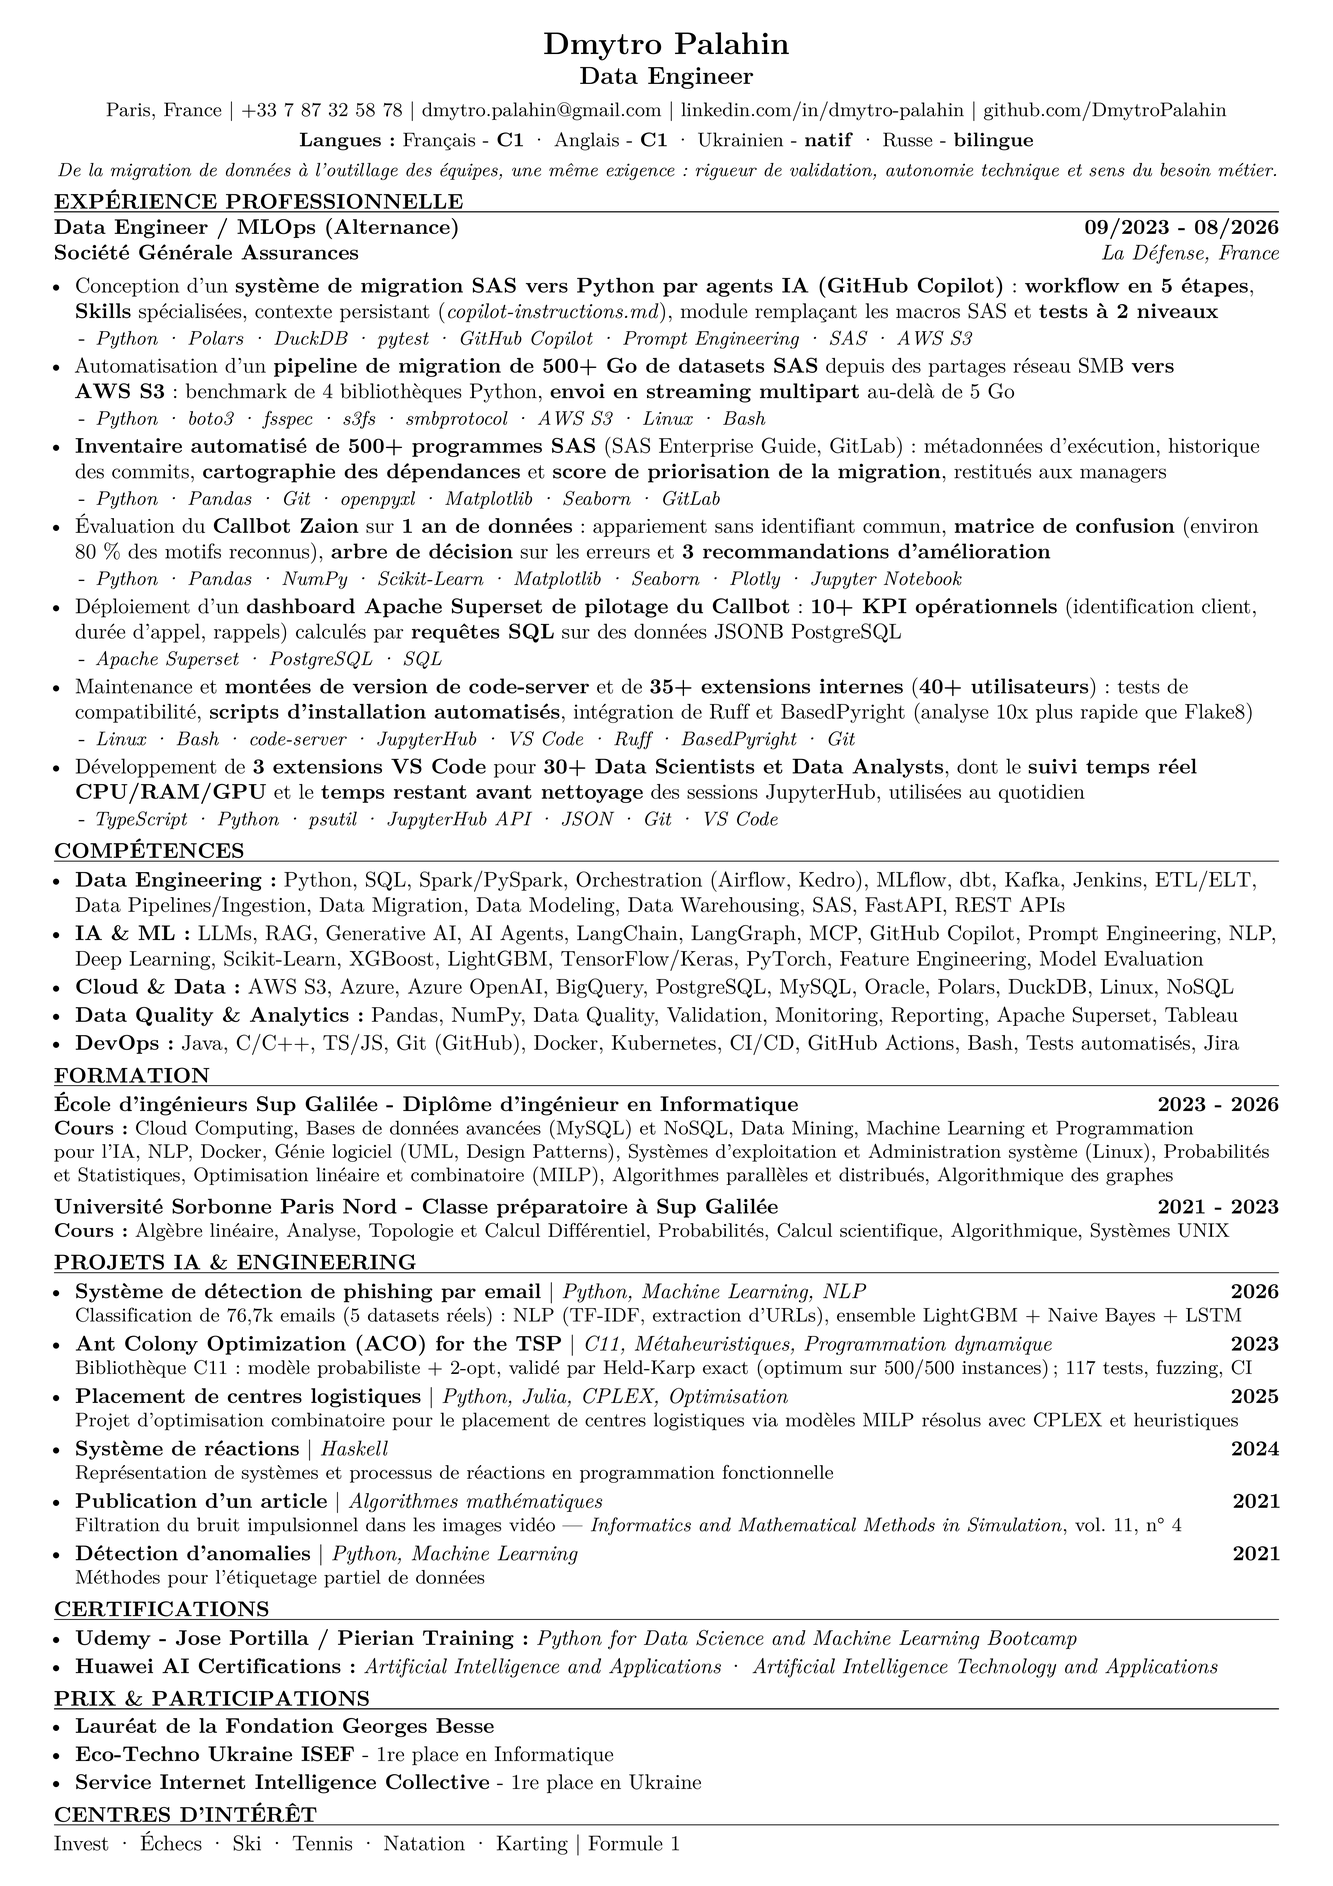
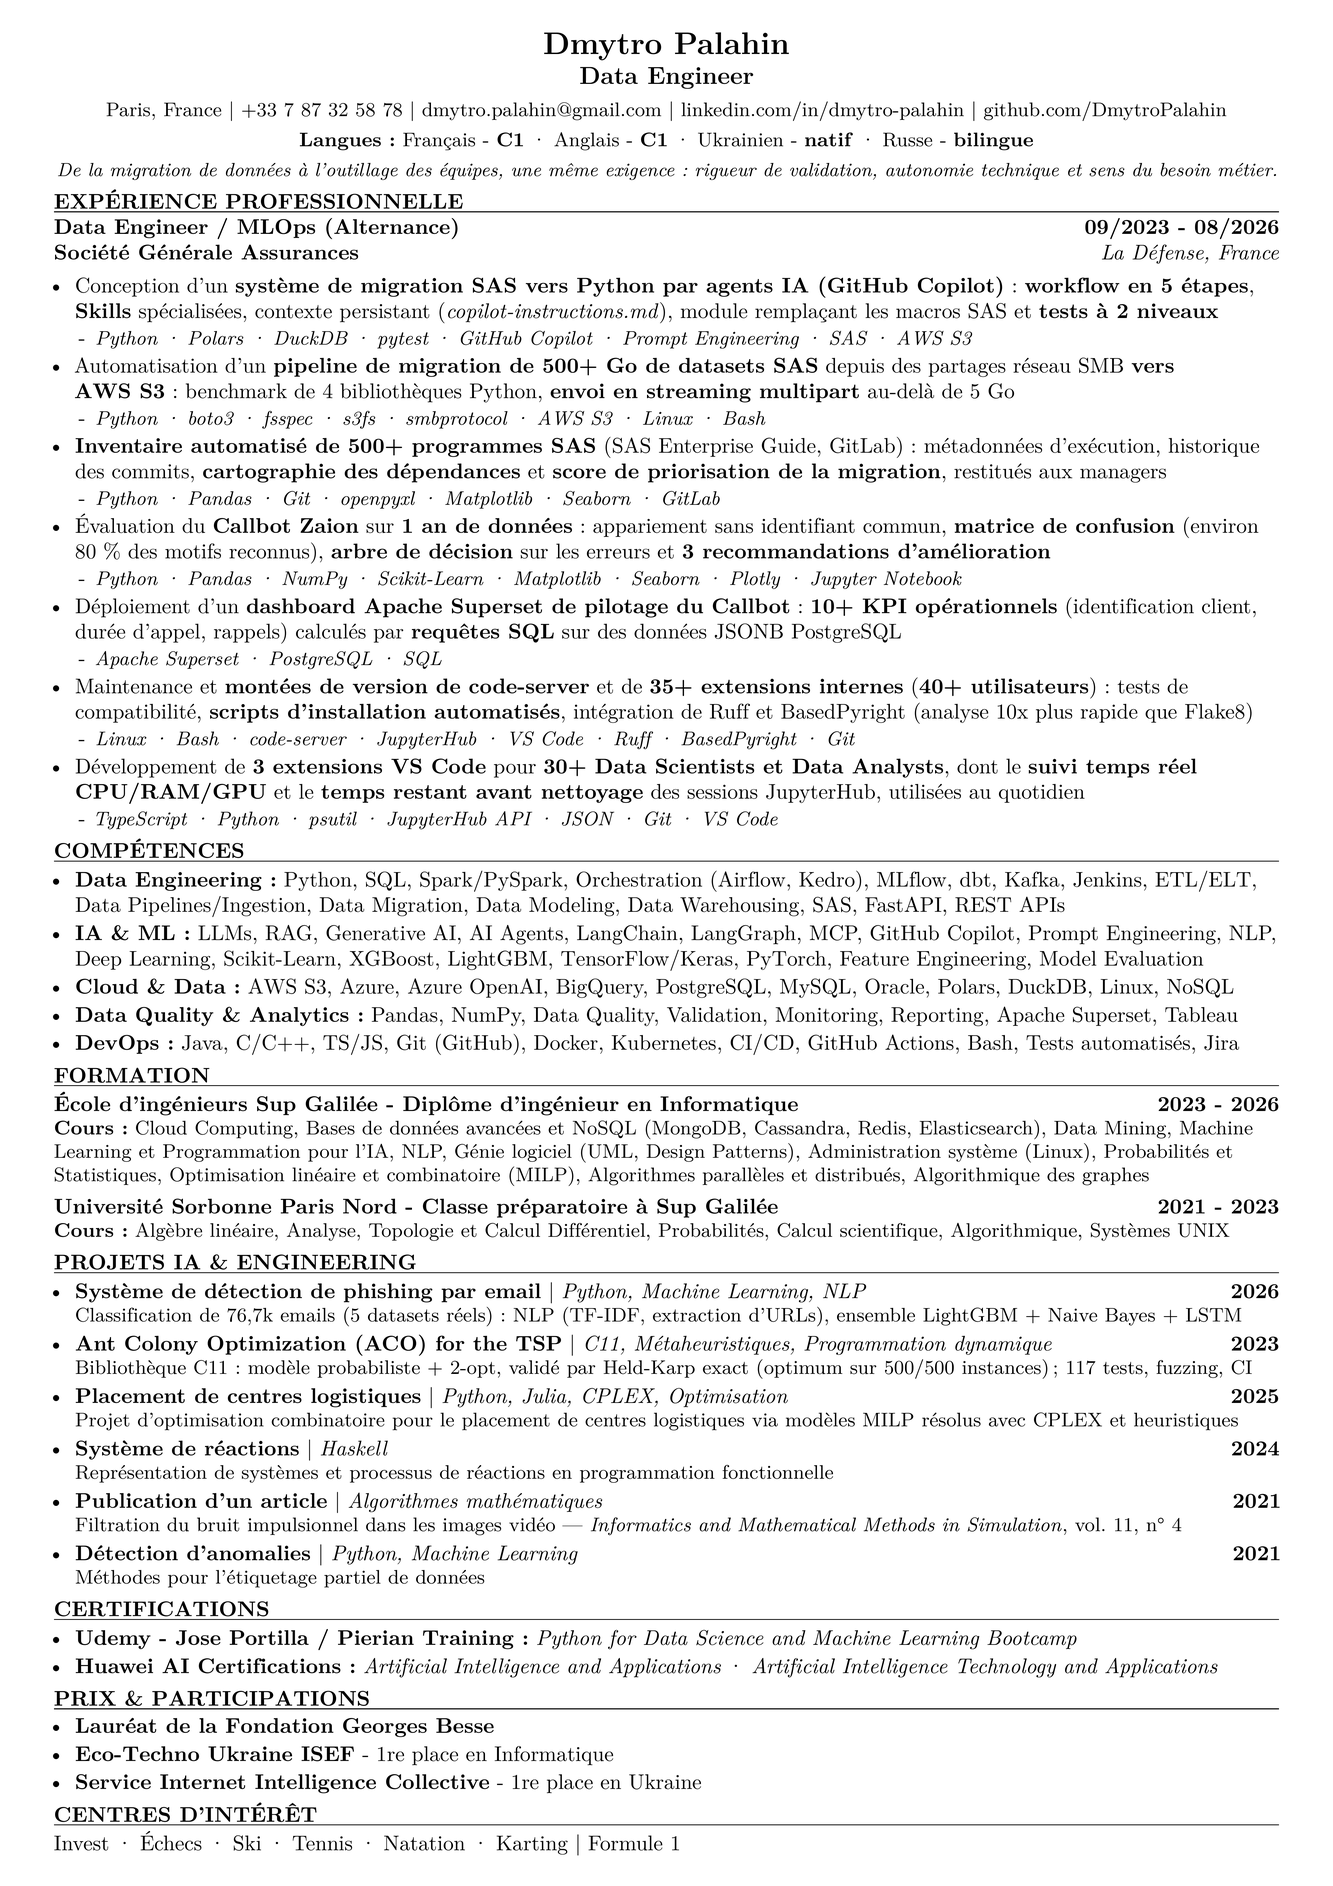
add Makefile and battleship reserve, upd docs for v2.1.0

Changed region(s): [[0.0312, 0.5931, 0.9373, 0.6243]]

diff --git a/src/fr/cv-dmytro-palahin-fr-d.tex b/src/fr/cv-dmytro-palahin-fr-d.tex
@@ -598,6 +598,34 @@
     % %   validées par XML Schema, interface Swing avec un thread de simulation dédié, CLI ; explorateur de règles bonus
     % %   parmi les 2^32 règles de rayon 2 (motifs fractals et chaotiques) ; 97 % de couverture de lignes hors classes
     % %   Swing ; CI sous Linux, macOS et Windows
+    %% Bataille navale (postes C / systèmes / génie logiciel) : projet de prepa 2023 (en binome, un seul fichier C de
+    %%   2 666 lignes) reecrit seul en 2026 (v2.0.0 a v2.2.1) ; variante d'annee « 2023 - 2026 ». A placer apres
+    %%   aco-tsp (2023) ; la page est pleine : deplacer un autre projet de deux lignes (Détection d'anomalies ou
+    %%   Système de réactions) dans cette Reserve pour garder une page (teste 11/2026)
+    % \project{Bataille navale (Battleship)}{https://github.com/DmytroPalahin/battleship}
+    % {C11, GTK 3, MVC, CMake, CI/CD}{2023}
+    % {Jeu MVC : moteur C11 sans dépendance (couvert à 98 \%), interfaces GTK 3 et terminal, 3 niveaux d'IA mesurés sur 10k parties, CI}
+    % % Bataille navale, description longue (2 lignes) : réécriture MVC d'un jeu en un seul fichier : moteur C11 sans
+    % %   dépendance (ni malloc, ni état global), interfaces GTK 3 et terminal ; 3 niveaux d'IA mesurés sur 10k parties
+    % %   (96 / 66 / 55 tirs par flotte) ; 54 tests unitaires, 2 250 parties de test, sanitizers, CI
+    %%   Autres descriptions sur une ligne (chacune tient sur une ligne avec la meme stack) :
+    %%   « Jeu MVC : moteur C11 sans dépendance, interfaces GTK 3 et terminal, 3 niveaux d'IA mesurés (carte de probabilités) ; 54 tests, CI »
+    %%   « Jeu MVC : moteur C11 sans dépendance, interfaces GTK 3 et terminal, 3 niveaux d'IA mesurés sur 10k parties ; 54 tests, CI »
+    %%   Titre : « Bataille navale (Battleship) » reprend le nom du depot battleship ; « Bataille navale » seul convient aussi
+    %%   Formulation courte (LinkedIn) : stack « C, GTK », description « Jeu de bataille navale en C avec interface graphique GTK »
+    %%   Chiffres (verifies 11/2026) : 98,7 % de couverture de lignes du moteur (la CI echoue sous 95 %) ; 54 cas unitaires ;
+    %%   2 250 parties = 250 pour chacune des 9 paires de niveaux, tous les invariants reverifies apres chaque tir ; test de
+    %%   bout en bout de l'interface sous Xvfb ; ASan/UBSan, clang-tidy, cppcheck, CodeQL ; CI GCC et Clang sous Ubuntu,
+    %%   Apple Clang sous macOS ; releases avec paquets .tar.gz et .deb, sommes de controle et provenance de build ;
+    %%   rapport de projet en LaTeX (francais et anglais)
+    %%   Pour l'entretien : l'IA est une fonction pure de l'information publique (elle ne recoit jamais la position des
+    %%   navires : elle ne peut pas tricher) ; niveau difficile = carte de probabilites (compte tous les placements des
+    %%   navires restants compatibles avec les tirs, tire la ou ils se recouvrent le plus), il bat le niveau moyen dans
+    %%   87,5 % des parties ; tirs moyens pour couler une flotte sur 10 000 parties : 96,2 (facile), 65,8 (moyen),
+    %%   55,3 (difficile) ; generateur aleatoire a graine dans le moteur (« --seed N » rejoue une partie a l'identique
+    %%   sous Linux et macOS) ; une partie entiere tient dans une structure de 800 octets ; la vue ne garde aucun etat
+    %%   du jeu ; defauts de la v1 supprimes par la reecriture : lecture hors limites, boucles gtk_main imbriquees,
+    %%   fenetre figee pendant le tour de l'ordinateur
     %% aco-tsp : projet de cours 2023 (en binome) reecrit seul en 2026 (v2.0.0) ; variante d'annee « 2023 - 2026 »
     %%   Description longue (2 lignes) : Ant System avec options élitiste, gloutonne (q0) et 2-opt ; références plus
     %%   proche voisin, 2-opt et Held-Karp exact ; lecteur TSPLIB ; 73 tests unitaires et 44 tests de bout en bout,
@@ -624,8 +652,7 @@
     %% Stack detaillee du projet phishing (postes ML) :
     %%   Python · LightGBM · TensorFlow/Keras · Scikit-Learn · Pandas · NumPy · Jupyter
     %% ----- Reserve : projets de prepa cites sur LinkedIn (ajouter le lien GitHub et l'annee s'ils existent) -----
-    % \project{Bataille navale}{URL}{C, GTK}{20xx}
-    % {Jeu de bataille navale en C avec interface graphique GTK}
+    %% Bataille navale : desormais dans « Reserve : projets » ci-dessus (depot et annee connus)
     % \project{Reconnaissance de langue}{URL}{C++, Perceptron}{20xx}
     % {Reconnaissance de la langue par un perceptron implémenté en C++}
     %% ----- Reserve : projets quant a venir (garder en commentaire tant qu'ils ne sont pas réalisés) -----

diff --git a/src/en/cv-dmytro-palahin-en-d.tex b/src/en/cv-dmytro-palahin-en-d.tex
@@ -586,6 +586,30 @@
     % %   by XML Schema, Swing viewer with a dedicated simulation thread, CLI; bonus rule explorer searching the 2^32
     % %   radius-2 rules for fractal and chaotic patterns; 97% line coverage outside the Swing classes; CI on Linux,
     % %   macOS and Windows
+    %% Battleship (C / systems / software engineering roles): 2023 preparatory-program coursework (with a classmate, one
+    %%   2,666-line C file) rewritten alone in 2026 (v2.0.0 to v2.2.1); year variant "2023 - 2026". Put it after
+    %%   aco-tsp (2023); the page is full, so move another two-line project (Anomaly Detection or Reaction Systems)
+    %%   to this Reserve to keep one page (tested 11/2026)
+    % \project{Battleship}{https://github.com/DmytroPalahin/battleship}
+    % {C11, GTK 3, MVC, CMake, CI/CD}{2023}
+    % {MVC game: dependency-free C11 engine, GTK 3 and terminal UIs, 3 AI levels benchmarked on 10k games; 98\% engine coverage, CI}
+    % % Battleship, longer description (2 lines): MVC rewrite of a single-file game: dependency-free C11 engine (no malloc,
+    % %   no global state), GTK 3 and terminal UIs; 3 AI levels benchmarked on 10k seeded games (96 / 66 / 55 shots per
+    % %   fleet); 54 unit tests, 2,250 property-tested games, sanitizers, CI
+    %%   Other one-line descriptions (each fits on one line with the same stack):
+    %%   "MVC game: dependency-free C11 engine, GTK 3 and terminal UIs, probability-map AI benchmarked on 10k games; 54 tests, CI"
+    %%   "MVC game: dependency-free C11 engine, GTK 3 and terminal UIs, 3 benchmarked AI levels (probability map); 54 tests, CI"
+    %%   Short wording (LinkedIn): stack "C, GTK", description "Battleship game in C with a GTK graphical interface"
+    %%   Figures (checked 11/2026): 98.7% line coverage of the engine (CI fails below 95%); 54 unit cases; 2,250 games
+    %%   = 250 for each of the 9 level pairings, every invariant re-checked after each shot; end-to-end GUI test under
+    %%   Xvfb; ASan/UBSan, clang-tidy, cppcheck, CodeQL; CI with GCC and Clang on Ubuntu, Apple Clang on macOS; releases
+    %%   with .tar.gz and .deb packages, checksums and build provenance; project report in LaTeX (French and English)
+    %%   For interviews: the AI is a pure function of public knowledge only (it never receives the ship positions, so it
+    %%   cannot cheat); hard level = probability map (counts every placement of the ships still afloat consistent with
+    %%   the shots, fires where most overlap) and beats medium in 87.5% of matches; mean shots to sink a fleet over
+    %%   10,000 seeded games: 96.2 (easy), 65.8 (medium), 55.3 (hard); seeded RNG inside the engine ("--seed N" replays
+    %%   a match bit for bit on Linux and macOS); a whole match is one 800-byte structure; the view holds no game state;
+    %%   v1 defects removed by the rewrite: out-of-bounds read, nested gtk_main loops, window frozen during the AI turn
     %% aco-tsp: 2023 coursework (with a classmate) rewritten alone in 2026 as v2.0.0; year variant "2023 - 2026"
     %%   Longer description (2 lines): Ant System with elitist, greedy (q0) and 2-opt options; nearest-neighbour,
     %%   2-opt and exact Held-Karp baselines; TSPLIB parser; 73 unit tests and 44 end-to-end checks, libFuzzer,
@@ -608,8 +632,7 @@
     %% Detailed stack of the phishing project (ML roles):
     %%   Python · LightGBM · TensorFlow/Keras · Scikit-Learn · Pandas · NumPy · Jupyter
     %% ----- Reserve: preparatory-program projects mentioned on LinkedIn (add the GitHub link and the year if they exist) -----
-    % \project{Battleship}{URL}{C, GTK}{20xx}
-    % {Battleship game in C with a GTK graphical interface}
+    %% Battleship: now in "Reserve: projects" above (repository and year known)
     % \project{Language Recognition}{URL}{C++, Perceptron}{20xx}
     % {Language recognition with a perceptron implemented in C++}
     %% ----- Reserve: upcoming quant projects (keep commented out until they are actually completed) -----

diff --git a/README.md b/README.md
@@ -82,9 +82,9 @@ Sup Galilée engineer (2026) · 3-year apprenticeship at Société Générale As
 | 🏢&nbsp;**In production** <br><sub>Société Générale Assurances</sub> | Python · Polars · DuckDB · Pandas · NumPy · pytest · boto3 · fsspec · s3fs · AWS S3 · SAS · SQL · PostgreSQL · Apache Superset · Scikit-Learn · GitHub Copilot · Prompt Engineering · TypeScript (VS Code extensions) · JupyterHub · code-server · Ruff · BasedPyright · Linux · Bash · Git / GitLab |
 | 🔧&nbsp;**Data Engineering** | Python · SQL · Spark / PySpark · Airflow · Kedro · MLflow · dbt · Kafka · Jenkins · ETL / ELT · Data Pipelines & Ingestion · Data Migration · Data Modeling · Data Warehousing · SAS · FastAPI · REST APIs |
 | 🤖&nbsp;**AI & ML** | LLMs · RAG · Generative AI · AI Agents · LangChain · LangGraph · MCP · GitHub Copilot · Prompt Engineering · NLP · Deep Learning · Scikit-Learn · XGBoost · LightGBM · TensorFlow / Keras · PyTorch · Feature Engineering · Model Evaluation |
-| ☁&nbsp;**Cloud & Data** | AWS S3 · BigQuery · PostgreSQL · MySQL · Oracle · Polars · DuckDB · Linux · NoSQL |
+| ☁&nbsp;**Cloud & Data** | AWS S3 · Azure · Azure OpenAI · BigQuery · PostgreSQL · MySQL · Oracle · Polars · DuckDB · Linux · NoSQL |
 | 📊&nbsp;**Data Quality & Analytics** | Pandas · NumPy · Data Quality · Validation · Monitoring · Reporting · Apache Superset · Tableau |
-| ⚙&nbsp;**DevOps & Languages** | Java · C / C++ · TypeScript / JavaScript · Git / GitLab · Docker · Kubernetes · CI/CD · GitHub Actions · Bash · Automated Testing · Jira |
+| ⚙&nbsp;**DevOps & Languages** | Java · C / C++ · TypeScript / JavaScript · Git (GitHub) · Docker · Kubernetes · CI/CD · GitHub Actions · Bash · Automated Testing · Jira |
 
 ---
 
@@ -142,6 +142,7 @@ cv-latex/
 ├── CHANGELOG.md
 ├── CONTRIBUTING.md
 ├── LICENSE
+├── Makefile                             # local shortcuts: build, try, check, preview
 └── README.md
 ```
 
@@ -149,7 +150,16 @@ cv-latex/
 
 ## ⚙ Build locally
 
-Requirements: **pdfLaTeX** with `latexmk`, from [TeX Live](https://www.tug.org/texlive/) / [MacTeX](https://www.tug.org/mactex/) 2021 or newer, or [MiKTeX](https://miktex.org/).
+Requirements: **pdfLaTeX** with `latexmk`, from [TeX Live](https://www.tug.org/texlive/) / [MacTeX](https://www.tug.org/mactex/) 2021 or newer, or [MiKTeX](https://miktex.org/). The `make` shortcuts also use [Poppler](https://poppler.freedesktop.org/) for the checks and the previews (`brew install poppler`).
+
+```sh
+make            # build both CVs (make en, make fr: one of them)
+make try        # test build outside the repository: page count and changed lines
+make check      # the CI checks: one page, extractable text, PDF up to date
+make preview    # regenerate the README previews
+```
+
+`make help` lists every command and option. `make` only wraps `latexmk`; the explicit form is:
 
 ```sh
 cd src/en
@@ -162,13 +172,7 @@ PDF to send, with a recruiter-friendly file name:
 latexmk -pdf -jobname=CV_Dmytro_Palahin_Data_Engineer -auxdir=/tmp/latex-build -outdir=. cv-dmytro-palahin-en-d.tex
 ```
 
-Regenerate the README preview (needs `pdftoppm` from Poppler: `brew install poppler`):
-
-```sh
-pdftoppm -png -r 200 -singlefile cv-dmytro-palahin-en-d.pdf ../../resources/img/cv-dmytro-palahin-en-d
-```
-
-The same commands work for French from `src/fr` with `fr-d` file names. More details in [CONTRIBUTING.md](CONTRIBUTING.md).
+The `latexmk` commands work the same way for French, from `src/fr` with `fr-d` file names. More details in [CONTRIBUTING.md](CONTRIBUTING.md).
 
 ---
 
@@ -186,6 +190,8 @@ git tag v*.*.*     ->  build EN + FR  ->  checks  ->  GitHub Release: PDFs + pre
 | The CV fits on one page | `pdfinfo` | ❌ fails the build |
 | Text is extractable: name, title, Python, SQL, GitHub link | `pdftotext` | ❌ fails the build |
 | The committed PDF matches its `.tex` source | `pdftotext` | ⚠ warning |
+
+`make check` runs the same three checks locally, before the commit; there, an out-of-date PDF is an error.
 
 Create a release: add a `## [v2.0.0] - YYYY-MM-DD` section to [CHANGELOG.md](CHANGELOG.md), then
 

diff --git a/CONTRIBUTING.md b/CONTRIBUTING.md
@@ -25,9 +25,16 @@ Offer-specific CVs (`src/other/`), older versions (`src/old/`), other variants, 
 
 - **pdfLaTeX** with `latexmk`: [TeX Live](https://www.tug.org/texlive/) / [MacTeX](https://www.tug.org/mactex/) 2021 or newer, or [MiKTeX](https://miktex.org/)
 - Packages: `lmodern`, `microtype`, `enumitem`, `geometry`, `hyperref`, `bookmark`, `babel` (english, french)
-- Optional, for previews: `pdftoppm` from [Poppler](https://poppler.freedesktop.org/) (`brew install poppler`)
+- Optional, for the `make` shortcuts: GNU Make (preinstalled on macOS) and [Poppler](https://poppler.freedesktop.org/) for `pdfinfo`, `pdftotext` and `pdftoppm` (`brew install poppler`)
 
 ### Build
+
+```sh
+make       # both CVs, next to their sources
+make en    # one language (make fr)
+```
+
+The build stops with an error when a CV does not fit on one page. Without `make`:
 
 ```sh
 cd src/en
@@ -40,24 +47,42 @@ PDF to send, with a recruiter-friendly file name:
 latexmk -pdf -jobname=CV_Dmytro_Palahin_Data_Engineer -auxdir=/tmp/latex-build -outdir=. cv-dmytro-palahin-en-d.tex
 ```
 
+### Try and check a change
+
+```sh
+make try      # test build in /tmp/latex-build/try: nothing in the repository changes
+make check    # the CI checks: one page, extractable text, PDF up to date
+```
+
+- `make try` prints the page count and the lines of text that change compared with the current PDF, so a line that wraps or a section pushed to a second page shows at once
+- `make check` is the gate before a commit: run `make` first, otherwise the PDF is reported as out of date
+- `L=fr` limits a command to one language; `CVS=src/fr/other/<file>.tex` runs `build`, `try`, `check` or `watch` on another `.tex`
+- `make watch` repeats the test build on every save; `make help` lists the other commands and options
+
 ### README previews
 
 ```sh
+make preview    # both previews, from the PDFs next to the sources
+```
+
+Without `make`:
+
+```sh
 cd src/en
-pdftoppm -png -r 200 -singlefile cv-dmytro-palahin-en-d.pdf ../../resources/img/cv-dmytro-palahin-en-d
+pdftoppm -png -r 600 -singlefile cv-dmytro-palahin-en-d.pdf ../../resources/img/cv-dmytro-palahin-en-d
 ```
 
 - `-singlefile` writes `cv-dmytro-palahin-en-d.png`, without the `-1` page suffix
 - the target folder must exist: `pdftoppm` does not create it
-- `-r 200` is enough for the README; `-r 600` gives files of about 2 MB
+- `-r 600` is what `make preview` uses: sharp when zoomed, files of about 2 MB; `-r 200` gives files of about 1 MB (`make preview PREVIEW_DPI=200`)
 
-For French, run the same commands from `src/fr` with `fr-d` file names.
+For French, run the same `latexmk` and `pdftoppm` commands from `src/fr` with `fr-d` file names.
 
 ---
 
 ## ✍ Editing rules (ATS)
 
-- Keep the CV on **one page**: check after every change with `pdfinfo <file>.pdf | grep Pages`
+- Keep the CV on **one page**: check after every change with `make try` (or `pdfinfo <file>.pdf | grep Pages`)
 - In running text, use `\B{...}` and `\I{...}` instead of `\textbf` / `\textit`: they insert real spaces, so PDF parsers do not glue words together
 - Write `A{}WS`, `EL{}T`, `T{}raining`...: the empty group breaks kerning, otherwise some extractors read "A WS"
 - Use `\nbrealspace` for a space that must not break (`A{}WS\nbrealspace S3`)
@@ -70,7 +95,8 @@ For French, run the same commands from `src/fr` with `fr-d` file names.
 ## 🚀 Release workflow
 
 ```sh
-# 1. Edit the .tex, rebuild the PDF, regenerate the preview
+# 1. Edit the .tex, rebuild the PDF, regenerate the preview, run the checks
+make && make preview && make check
 # 2. Add a "## [v2.0.1] - YYYY-MM-DD" section to CHANGELOG.md
 # 3. Commit and push
 git add .

diff --git a/CHANGELOG.md b/CHANGELOG.md
@@ -5,6 +5,28 @@ Format based on [Keep a Changelog](https://keepachangelog.com/en/1.1.0/): `[vMAJ
 
 ---
 
+## [v2.1.0] - 2026-11-16
+
+### Added
+
+- `Makefile`: local shortcuts around `latexmk`. `make` builds both CVs, `make try` runs a test build outside the repository (page count and changed lines), `make check` repeats the CI checks (one page, extractable text, PDF up to date), plus `make preview`, `make watch` and `make clean`
+- **Reserve** blocks in the `.tex` sources: Cellula (Java cellular automaton engine) and Battleship (C11, GTK 3) projects, Agile (Scrum), IoT coursework, title and description variants for the ACO-TSP project
+- `academic_profil/`: NoSQL databases (Cassandra, MongoDB, Redis, Elasticsearch, CouchDB) and Internet of Things (IoT)
+- `.gitattributes`: LF line endings, LaTeX-aware diff, PDF and PNG files marked as binary
+
+### Changed
+
+- **Projects**: the Traveling Salesman project becomes **Ant Colony Optimization for the Traveling Salesman Problem** (C11 library checked against exact Held-Karp, 117 tests, fuzzing, CI), links to the rewritten [aco-tsp](https://github.com/DmytroPalahin/aco-tsp) repository and moves up to second place
+- **Coursework**: NoSQL databases named (MongoDB, Cassandra, Redis, Elasticsearch), shorter wording to stay on one page
+- **Skills**: Azure and Azure OpenAI added to Cloud & Data; `Git/GitLab` becomes `Git (GitHub)`
+- Phishing project: `76,677 emails` written as `76.7k emails`
+- `README.md`: `make` commands in the build section, tech stack in line with the CV
+- `CONTRIBUTING.md`: `make` commands for building, trying and checking a change, previews at 600 dpi
+- `resources/img/`: previews regenerated from the current PDFs
+- `latex.yml`: neutral heading in the release notes
+
+---
+
 ## [v2.0.0] - 2026-11-12
 
 ### Added
